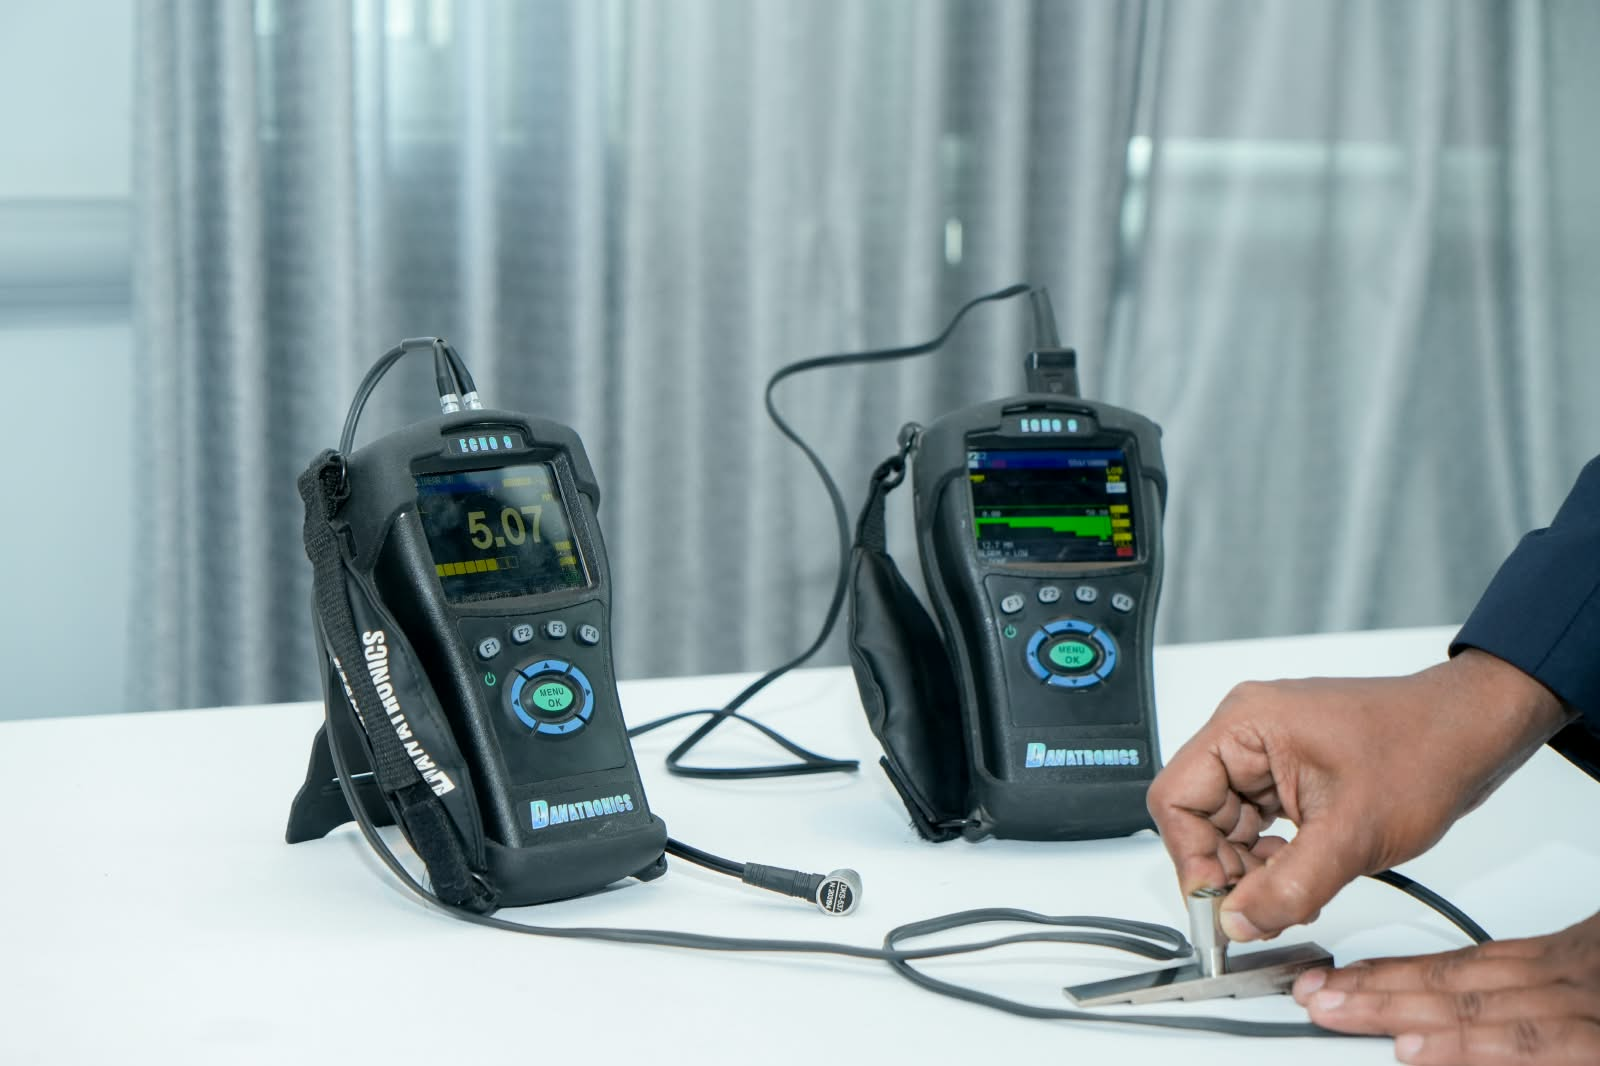
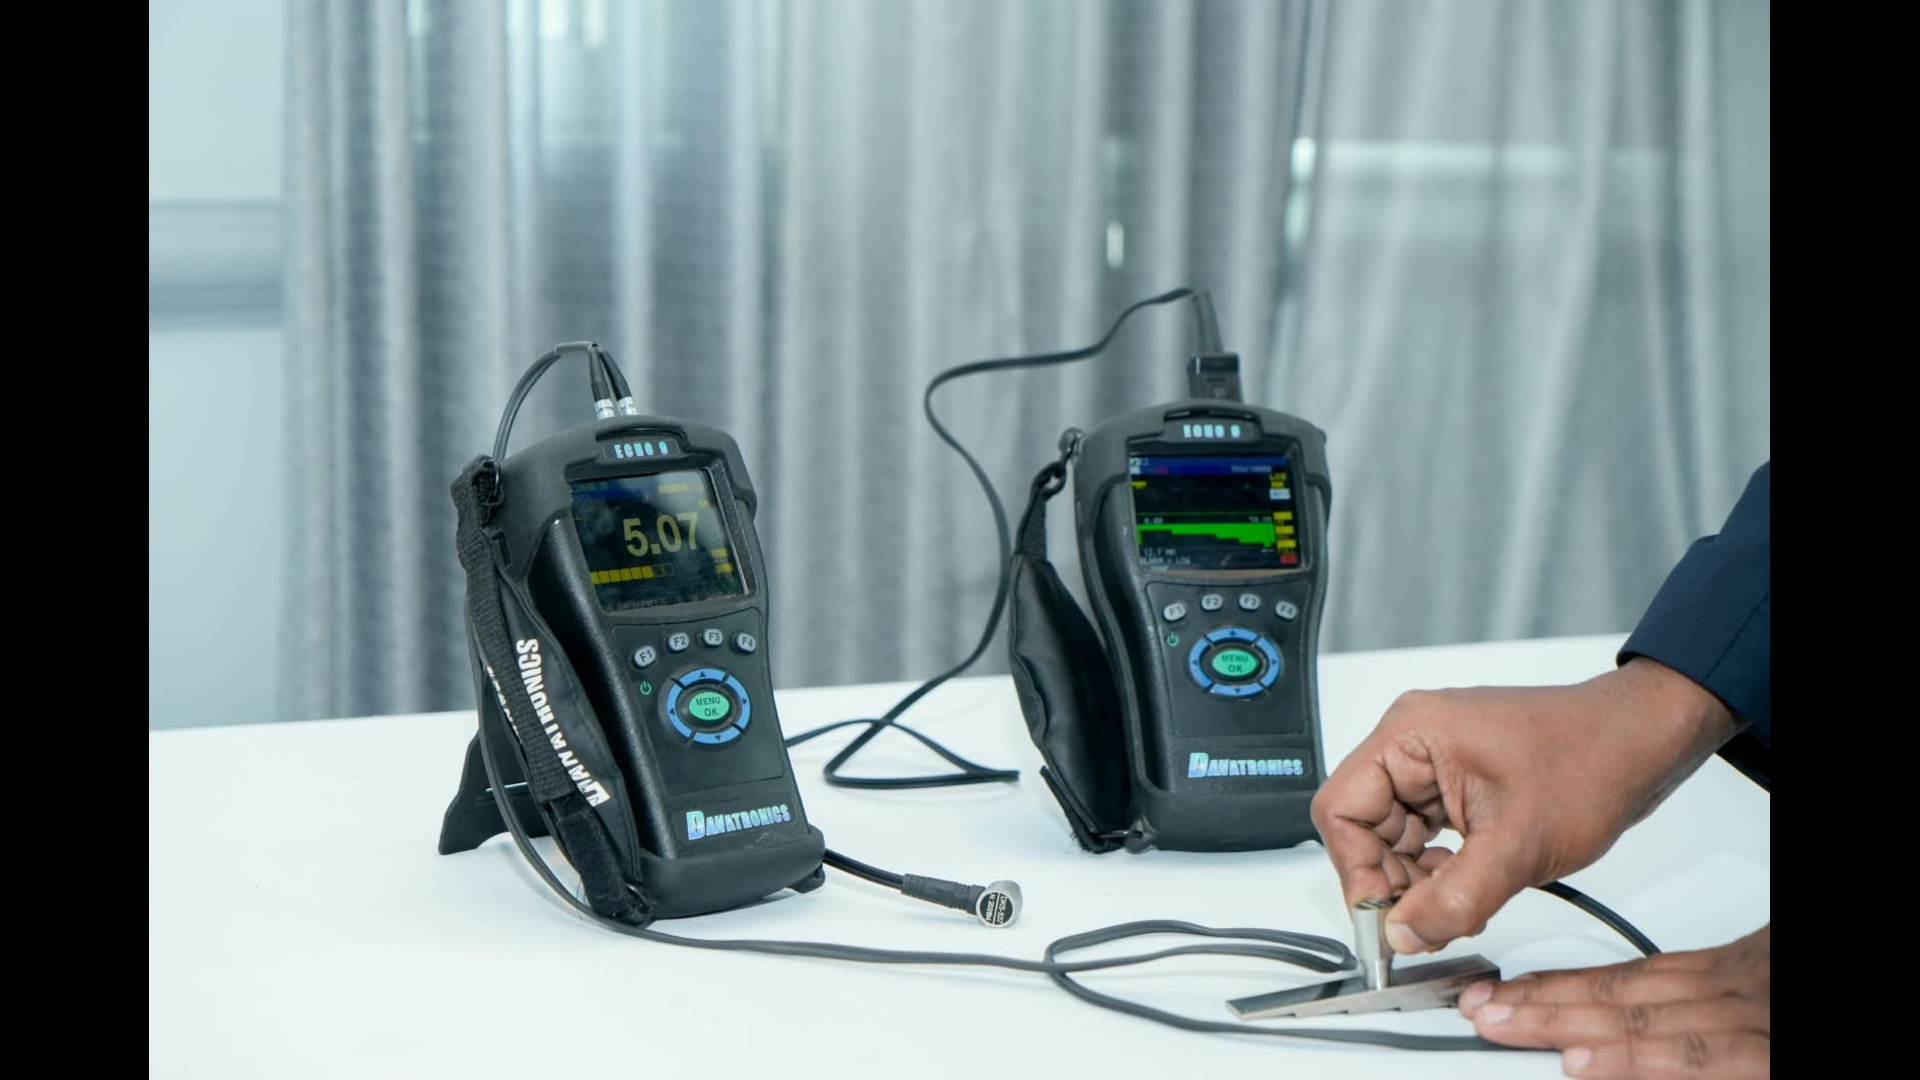
test

diff --git a/src/app.tsx b/src/app.tsx
@@ -48,10 +48,10 @@ function ScrollManager() {
   return null;
 }
 
-const ndtPhoto = new URL('./product/E3 NDT/DR Panels/EXT1036BW.png', import.meta.url).href;
+const ndtPhoto = new URL('./public/ndtProduct.png', import.meta.url).href;
 const logos = new URL('./public/1.jpeg', import.meta.url).href;
 const calib = new URL('./public/calibration.jpeg', import.meta.url).href;
-
+const station = new URL('./public/sunset.jpg', import.meta.url).href;
 const HERO_BG = new URL('./public/unnamed.jpg', import.meta.url).href;
 const BACKGROUND_IMAGES = [
   HERO_BG,
@@ -216,7 +216,7 @@ const WHAT_WE_DO_SLIDES = [
     description: 'With offices in Dubai, Abu Dhabi, Oman and Saudi Arabia, we bring local, responsive support to clients across the region, backed by decades of combined technical expertise.',
   },
   {
-    image: BACKGROUND_IMAGES[1],
+    image: station,
     title: 'Precision & Quality in Every Measurement',
     description: 'From understanding customer needs to training manpower and providing after-sale support, we partner with our clients at every step of their inspection and quality assurance journey.',
   },
@@ -297,7 +297,10 @@ function WhatWeDoCarousel() {
             ))}
           </div>
         </div>
-        <div className="relative h-56 md:h-[420px] bg-slate-950 flex items-center justify-center">
+        <div
+          className="relative overflow-hidden bg-slate-950"
+          style={{ aspectRatio: '4 / 3' }}
+        >
           <img
             key={slide.image}
             src={slide.image}
@@ -305,7 +308,7 @@ function WhatWeDoCarousel() {
             loading="eager"
             decoding="async"
             fetchPriority="high"
-            className="w-full h-full object-contain p-4"
+            className="w-full h-full object-cover object-center p-4"
           />
           <div className="absolute inset-0 bg-gradient-to-r from-[#0F172A]/40 md:from-[#0F172A]/60 to-transparent pointer-events-none"></div>
         </div>

diff --git a/src/index.css b/src/index.css
@@ -20,9 +20,14 @@
         min-height: 100%;
     }
 
+    html {
+        font-size: 17px;
+    }
+
     body {
         color: var(--site-text);
         font-family: var(--site-font);
+        font-size: 1rem;
         background: #0f172a;
     }
 }
